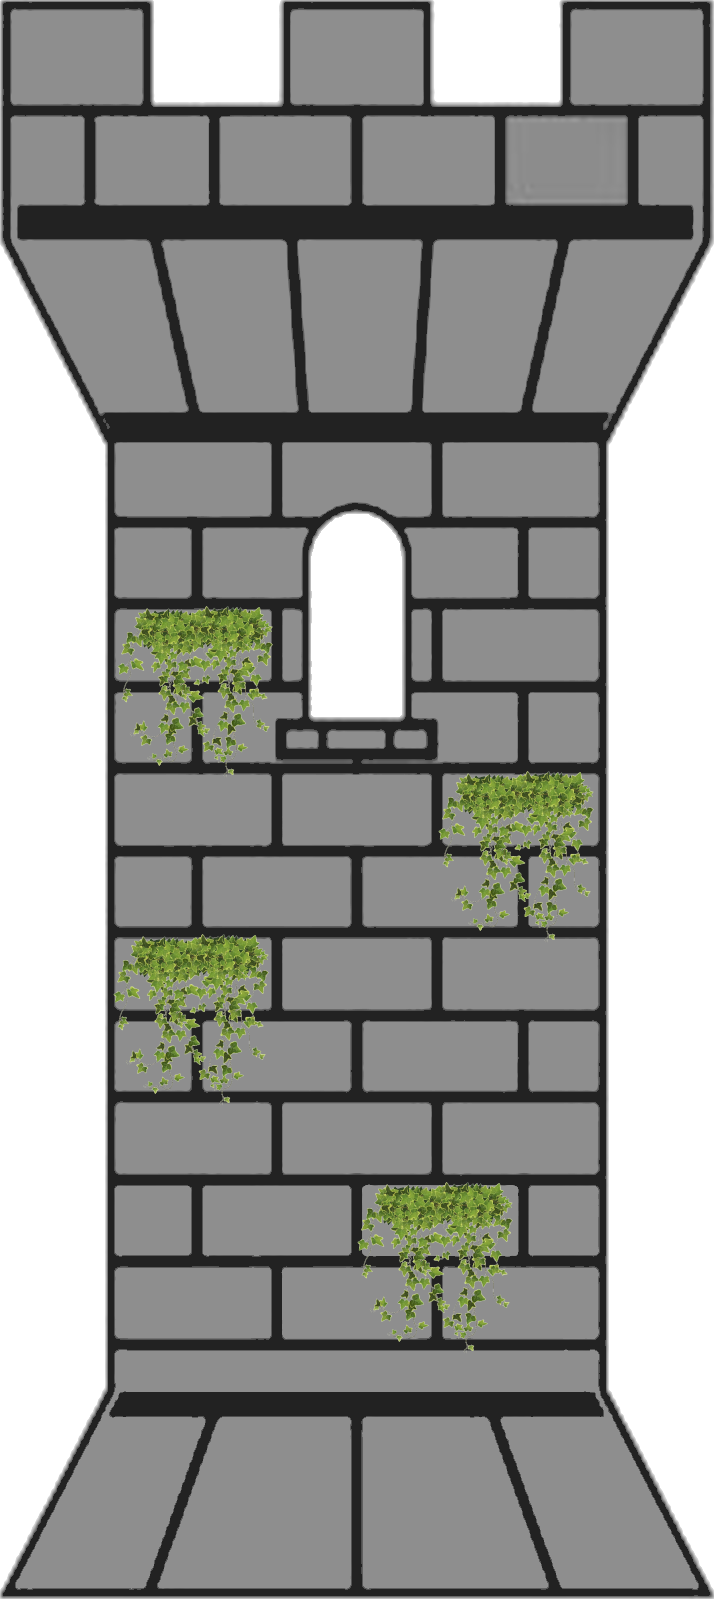
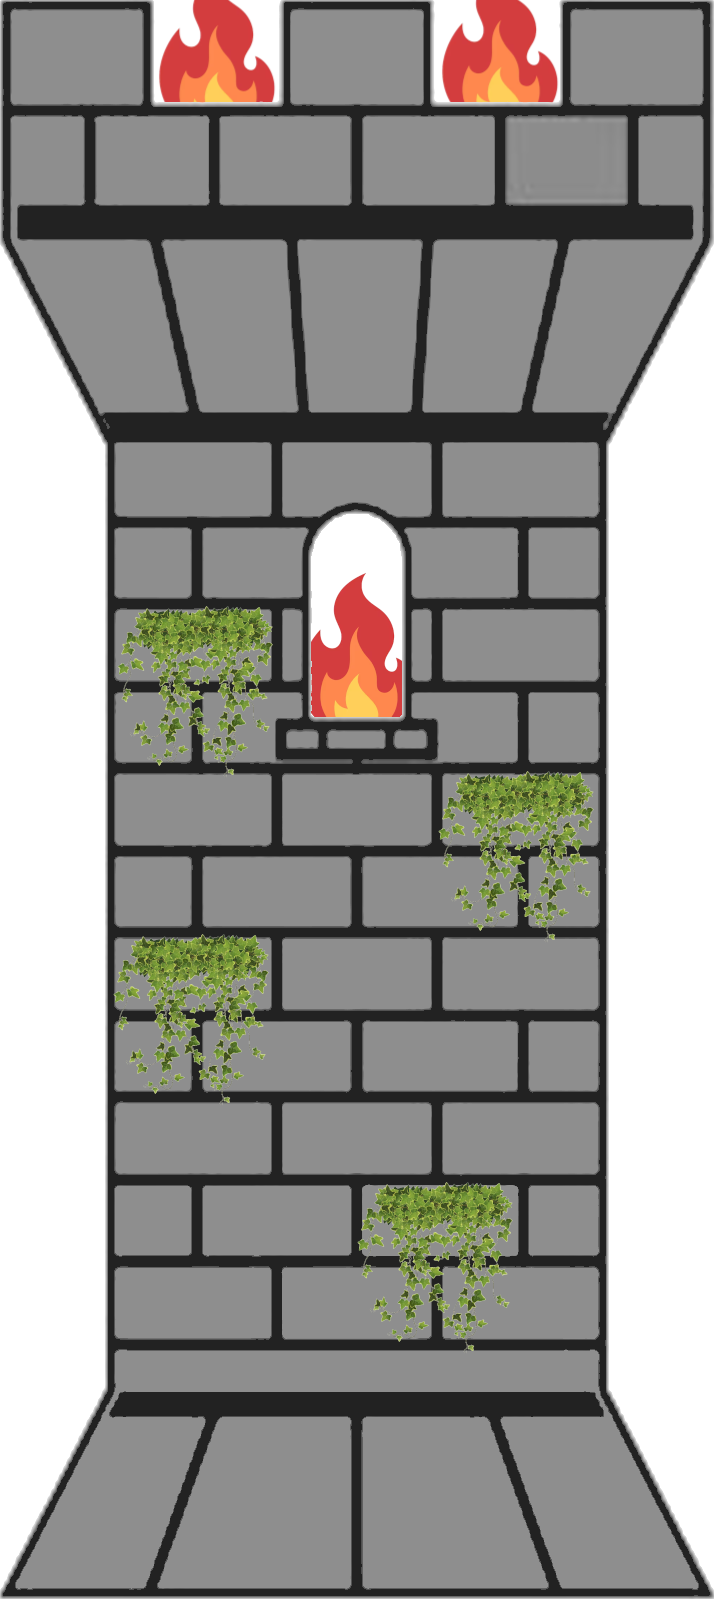
[UPDATE] asset for tower in guide

Changed region(s): [[0.4314, 0.3371, 0.5854, 0.4597], [0.6162, 0.0, 0.8011, 0.0613], [0.2157, 0.0, 0.4006, 0.0613]]

diff --git a/asperguide/app/guide/page.tsx b/asperguide/app/guide/page.tsx
@@ -17,7 +17,7 @@ export default function GuidePage() {
 
   const totalImages = 5;
   const progression = currentIndex / conseils.length;
-  const imageIndex = Math.min(4, Math.floor(progression * totalImages));
+  const imageIndex = Math.min(5, Math.floor(progression * totalImages));
   const imageSrc = `/tour_${imageIndex}.png`;
 
   const handleNextTip = () => {
